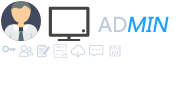
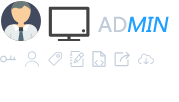
menu update

Changed region(s): [[0.0, 0.4412, 0.7263, 0.6765], [0.7542, 0.5294, 0.8659, 0.6471], [0.3073, 0.4118, 0.3631, 0.4412]]

diff --git a/themes/admin/src/router/index.js b/themes/admin/src/router/index.js
@@ -11,6 +11,8 @@ import Home from '@/page/Home'
 import Ak from '@/page/Ak'
 //用户管理
 import User from '@/page/User'
+//标签管理
+import Tag from '@/page/Tag'
 //日志管理-入口
 import Journal from '@/page/Journal'
 //日志管理-数据展示
@@ -23,8 +25,6 @@ import Microcode from '@/page/Microcode'
 import Push from '@/page/Push'
 //资源下载
 import Download from '@/page/Download'
-//建议反馈
-import Propose from '@/page/Propose'
 
 
 Vue.use(Router)
@@ -37,6 +37,7 @@ export default new Router({
                 { path: 'home', component: Home, name: "首页" },
                 { path: 'ak', component: Ak, name: "AK管理" },
                 { path: 'user', component: User, name: "用户管理" },
+                { path: 'tag', component: Tag, name: "标签管理" },
                 {
                     path: 'journal',
                     component: Journal,
@@ -49,8 +50,7 @@ export default new Router({
                 },
                 { path: 'microcode', component: Microcode, name: "微码管理" },
                 { path: 'push', component: Push, name: "好文推荐" },
-                { path: 'download', component: Download, name: "资源下载" },
-                { path: 'propose', component: Propose, name: "建议反馈" }
+                { path: 'download', component: Download, name: "资源下载" }
             ]
         },
         {

diff --git a/themes/admin/src/assets/css/main.less b/themes/admin/src/assets/css/main.less
@@ -51,31 +51,31 @@ i[class^='icon-']{
         border-left: 4px solid @color3;
     }
     i{
-        .size(16px);
+        .size(18px);
         float: left;
-        margin: 22px 8px 18px 0;
-        background-position-y: -42px;
+        margin: 20px 8px 18px 0;
+        background-position-y: -50px;
     }
     .icon-ak{
-        background-position-x: -1px;
+        background-position-x: 1px;
     }
     .icon-user{
-        background-position-x: -18px;
+        background-position-x: -23px;
+    }
+    .icon-tag{
+        background-position-x: -46px;
     }
     .icon-journal{
-        background-position-x: -35px;
+        background-position-x: -68px;
     }
     .icon-microcode{
-        background-position-x: -107px;
+        background-position-x: -89px;
     }
     .icon-push{
-        background-position-x: -52px;
+        background-position-x: -113px;
     }
     .icon-download{
-        background-position-x: -70px;
-    }
-    .icon-propose{
-        background-position-x: -88px;
+        background-position-x: -137px;
     }
 }
 

diff --git a/themes/admin/src/components/Nav.vue b/themes/admin/src/components/Nav.vue
@@ -18,11 +18,11 @@ export default {
       navList: [
         { name: "AK管理", route: "/ak", icon: "icon-ak" },
         { name: "用户管理", route: "/user", icon: "icon-user" },
+        { name: "标签管理", route: "/tag", icon: "icon-tag" },
         { name: "日志管理", route: "/journal", icon: "icon-journal" },
         { name: "微码管理", route: "/microcode", icon: "icon-microcode" },
         { name: "好文推荐", route: "/push", icon: "icon-push" },
-        { name: "资源下载", route: "/download", icon: "icon-download" },
-        { name: "建议反馈", route: "/propose", icon: "icon-propose" }
+        { name: "资源下载", route: "/download", icon: "icon-download" }
       ]
     };
   }
